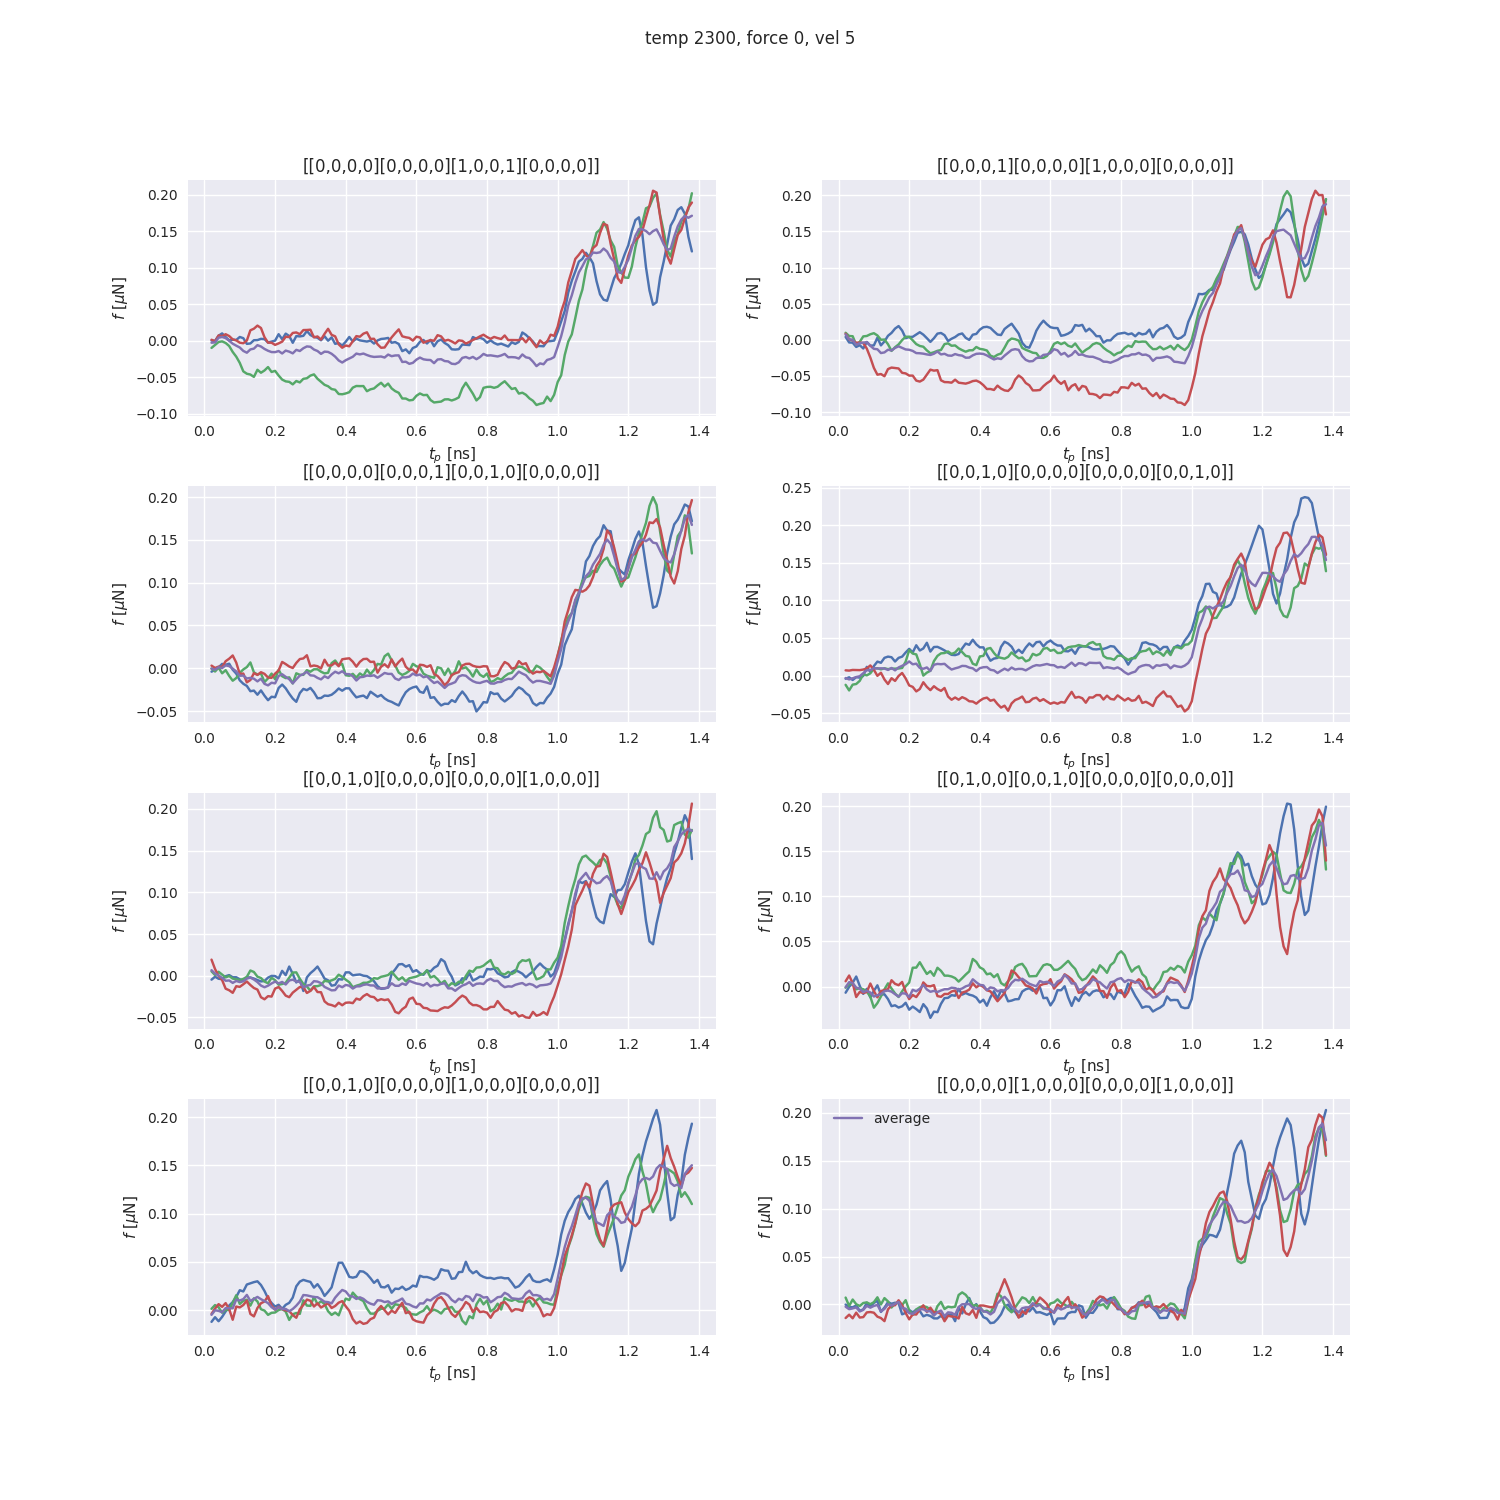
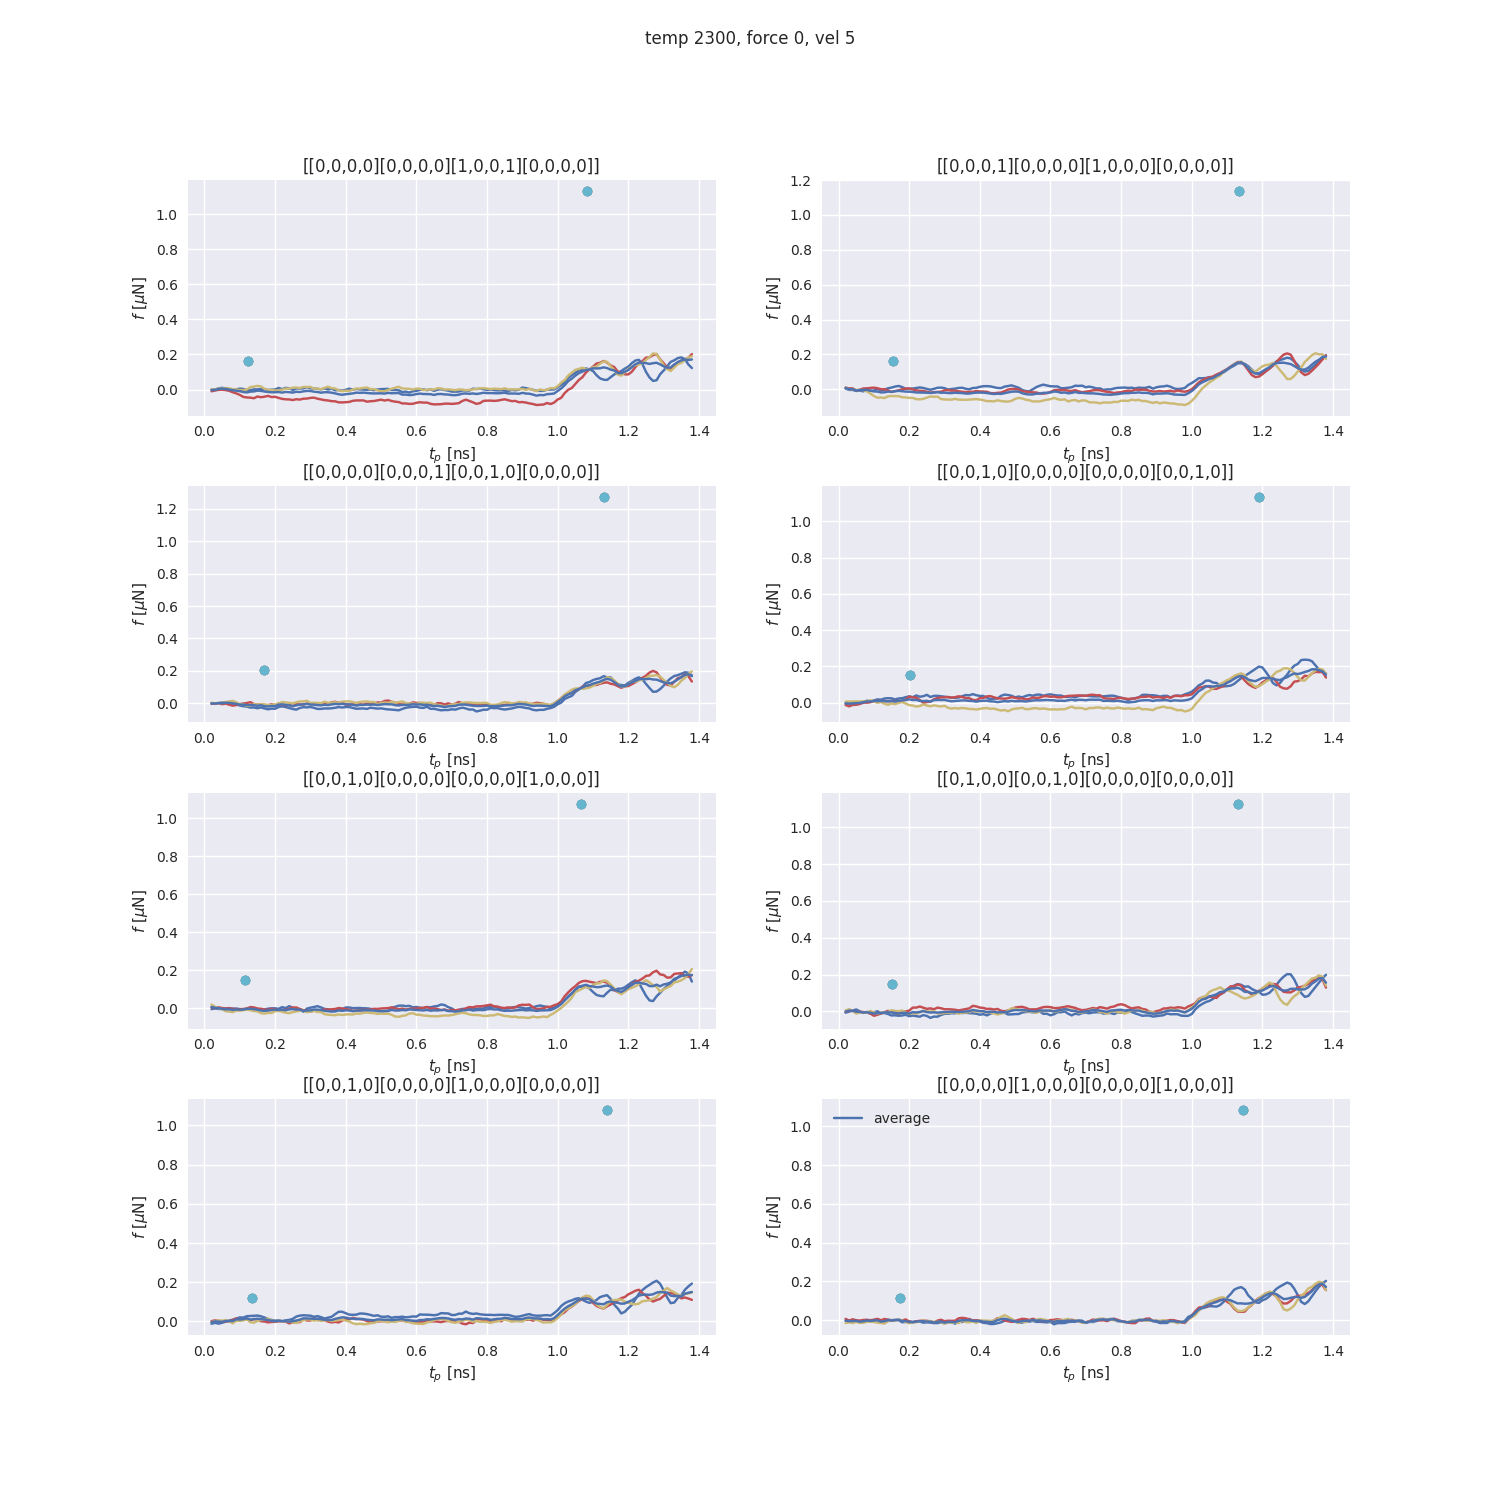
added ms all

diff --git a/python/plot/plot_load_curves.py b/python/plot/plot_load_curves.py
@@ -399,7 +399,7 @@ def plot_production(temp, vel, force, uc, asperities, time, orientation, grid, e
         
         for load_curve in load_curves_all:
             axs[i].plot(load_curve[:,0], load_curve[:,1])
-            #axs[i].plot(ms_all[0], ms_all[1]) #this is just proprietary
+            axs[i].plot(ms_all[0], ms_all[1], 'o') #this is just proprietary
 
         print('mean load curves shape: ',load_curves_mean.shape)
         print('all load curves shape: ',load_curves_all.shape)
